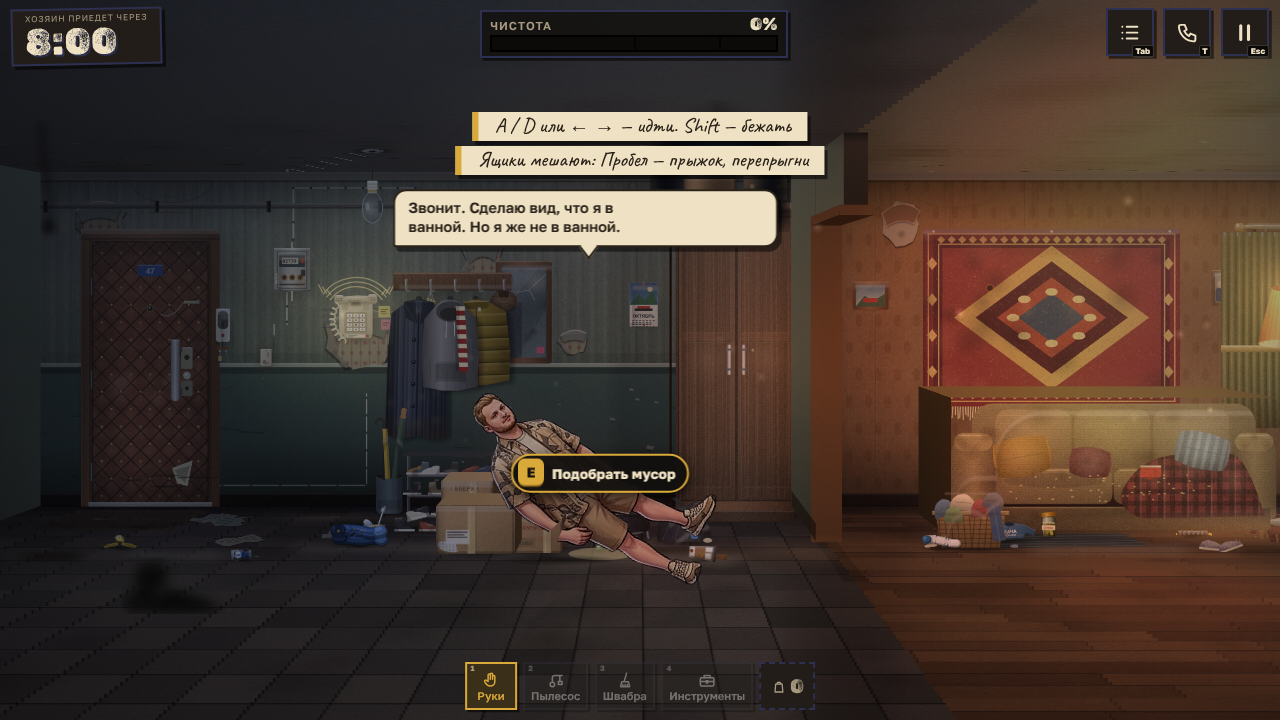
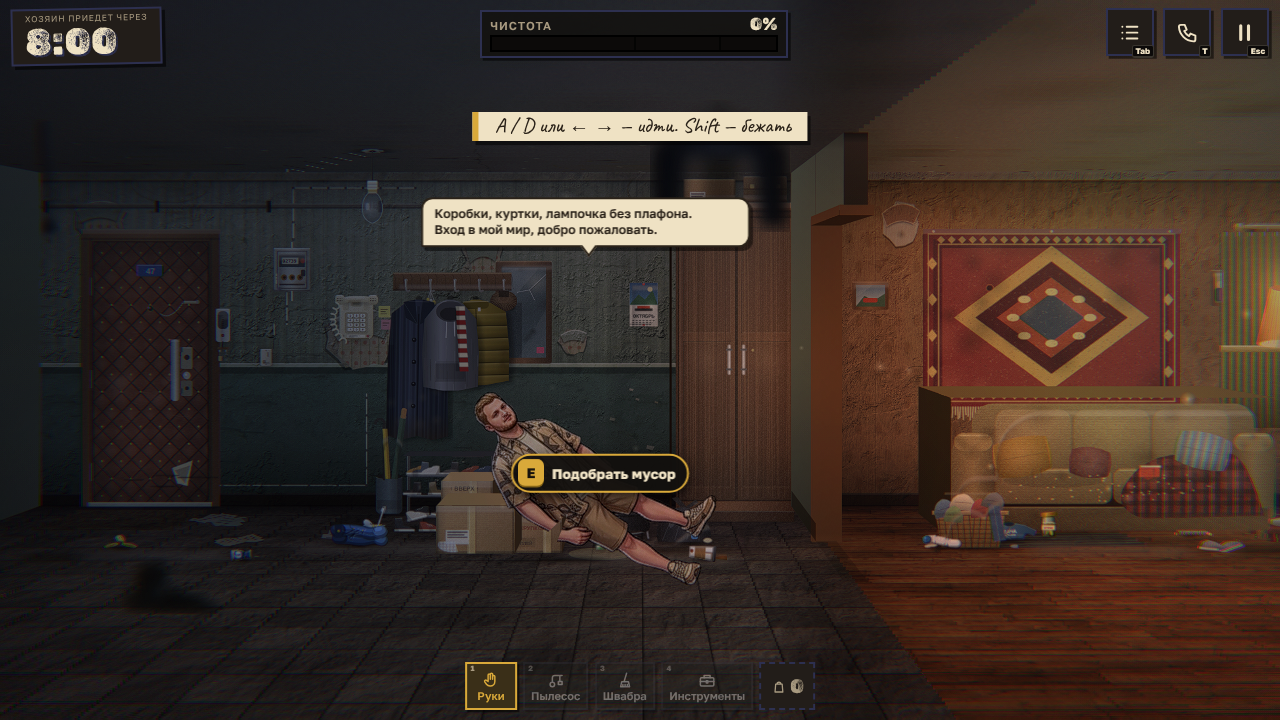
WebGL post-process enhancement (AA, adaptive sharpen, clarity, grade) with settings toggle
Claude-Session: https://claude.ai/code/session_01Cr2TWfzsTSuZMJmoki1rcL

diff --git a/js/post.js b/js/post.js
@@ -1,0 +1,63 @@
+/* ==========================================================================
+   BB.gl - WebGL post-process "AI-style" image enhancement (DLSS/FSR-like in spirit, NOT real DLSS):
+   edge-aware anti-aliasing, contrast-adaptive sharpening (RCAS-like), local contrast ("clarity"), gentle
+   lens chromatic aberration, filmic S-curve and dithering. The 2D game canvas is uploaded as a texture each
+   frame and drawn to an overlay canvas; with BB.renderScale < 1 the 2D scene is rendered at lower resolution
+   and upscaled here (dynamic-resolution trick that also saves GPU time).
+   ========================================================================== */
+(function () {
+  'use strict';
+  const BB = window.BB = window.BB || {};
+  const VS = 'attribute vec2 p;varying vec2 uv;void main(){uv=p*.5+.5;gl_Position=vec4(p,0.,1.);}';
+  const FS = `precision highp float;varying vec2 uv;uniform sampler2D t;uniform vec2 px;uniform float amt;uniform float seed;
+float L(vec3 c){return dot(c,vec3(.299,.587,.114));}
+void main(){
+  vec2 cc=uv-.5; float ab=dot(cc,cc)*1.1*amt;                                   // lens chromatic aberration (stronger at the edges)
+  vec3 c=vec3(texture2D(t,uv+cc*ab*.012).r,texture2D(t,uv).g,texture2D(t,uv-cc*ab*.012).b);
+  vec3 n=texture2D(t,uv+vec2(0.,px.y)).rgb,s=texture2D(t,uv-vec2(0.,px.y)).rgb,e=texture2D(t,uv+vec2(px.x,0.)).rgb,w=texture2D(t,uv-vec2(px.x,0.)).rgb;
+  float lc=L(c),ln=L(n),ls=L(s),le=L(e),lw=L(w);
+  float mn=min(lc,min(min(ln,ls),min(le,lw))),mx=max(lc,max(max(ln,ls),max(le,lw)));
+  // 1) edge-aware anti-aliasing: blend along strong luma edges only
+  vec3 avg=(n+s+e+w)*.25; float edge=smoothstep(.07,.30,mx-mn);
+  vec3 col=mix(c,mix(c,avg,.6),edge*amt);
+  // 2) contrast adaptive sharpening (less sharpening where contrast is already high)
+  float wgt=-1./mix(8.,5.,clamp(min(mn,1.-mx)/max(mx,.001),0.,1.))*(.45+.25*amt)*.62;
+  col=(col+wgt*(n+s+e+w))/(1.+4.*wgt);
+  // 3) local contrast / clarity
+  col+=(col-avg)*.11*amt;
+  // 4) filmic S-curve + slight saturation lift, dithering against banding
+  col=mix(col,col*col*(3.-2.*col),.10*amt);
+  float g=dot(col,vec3(.299,.587,.114)); col=mix(vec3(g),col,1.0+.04*amt);
+  float d=fract(sin(dot(gl_FragCoord.xy+seed,vec2(12.9898,78.233)))*43758.5453)-.5; col+=d/255.;
+  gl_FragColor=vec4(clamp(col,0.,1.),1.);
+}`;
+  const G = BB.gl = { on: false, amt: 1, ok: false };
+  BB.renderScale = 1;
+  G.init = function (src) {
+    if (G.ok) return true;
+    try {
+      const c = document.createElement('canvas'); c.id = 'cvgl'; c.style.cssText = 'position:absolute;inset:0;width:100%;height:100%;display:block;pointer-events:none;image-rendering:auto';
+      const gl = c.getContext('webgl', { alpha: false, antialias: false, depth: false, stencil: false, preserveDrawingBuffer: false, powerPreference: 'high-performance' }); if (!gl) return false;
+      const sh = (ty, s) => { const o = gl.createShader(ty); gl.shaderSource(o, s); gl.compileShader(o); if (!gl.getShaderParameter(o, gl.COMPILE_STATUS)) throw new Error(gl.getShaderInfoLog(o)); return o; };
+      const pr = gl.createProgram(); gl.attachShader(pr, sh(gl.VERTEX_SHADER, VS)); gl.attachShader(pr, sh(gl.FRAGMENT_SHADER, FS)); gl.linkProgram(pr); if (!gl.getProgramParameter(pr, gl.LINK_STATUS)) throw new Error('link');
+      const b = gl.createBuffer(); gl.bindBuffer(gl.ARRAY_BUFFER, b); gl.bufferData(gl.ARRAY_BUFFER, new Float32Array([-1, -1, 1, -1, -1, 1, 1, 1]), gl.STATIC_DRAW);
+      gl.useProgram(pr); const loc = gl.getAttribLocation(pr, 'p'); gl.enableVertexAttribArray(loc); gl.vertexAttribPointer(loc, 2, gl.FLOAT, false, 0, 0);
+      const tex = gl.createTexture(); gl.bindTexture(gl.TEXTURE_2D, tex); gl.texParameteri(gl.TEXTURE_2D, gl.TEXTURE_MIN_FILTER, gl.LINEAR); gl.texParameteri(gl.TEXTURE_2D, gl.TEXTURE_MAG_FILTER, gl.LINEAR); gl.texParameteri(gl.TEXTURE_2D, gl.TEXTURE_WRAP_S, gl.CLAMP_TO_EDGE); gl.texParameteri(gl.TEXTURE_2D, gl.TEXTURE_WRAP_T, gl.CLAMP_TO_EDGE);
+      gl.pixelStorei(gl.UNPACK_FLIP_Y_WEBGL, true);
+      G.c = c; G.gl = gl; G.u = { px: gl.getUniformLocation(pr, 'px'), amt: gl.getUniformLocation(pr, 'amt'), seed: gl.getUniformLocation(pr, 'seed') }; G.src = src; G.ok = true;
+      src.parentNode.insertBefore(c, src.nextSibling); return true;
+    } catch (e) { console.warn('[post] WebGL enhance unavailable:', e.message); G.ok = false; return false; }
+  };
+  G.enable = function (src, on) {
+    on = !!on; if (on && !G.init(src)) on = false;
+    G.on = on; if (G.c) G.c.style.display = on ? 'block' : 'none'; src.style.visibility = on ? 'hidden' : 'visible'; BB.renderScale = on ? (BB.renderScaleWanted || 1) : 1;
+    if (BB.fit) BB.fit();
+  };
+  G.present = function () {
+    if (!G.on || !G.ok) return; const gl = G.gl, s = G.src, W = s.clientWidth * Math.min(window.devicePixelRatio || 1, 2) | 0, H = s.clientHeight * Math.min(window.devicePixelRatio || 1, 2) | 0;
+    const tw = Math.min(W, 2560), th = Math.min(H, 1440); if (G.c.width !== tw || G.c.height !== th) { G.c.width = tw; G.c.height = th; }
+    gl.viewport(0, 0, G.c.width, G.c.height);
+    try { gl.texImage2D(gl.TEXTURE_2D, 0, gl.RGB, gl.RGB, gl.UNSIGNED_BYTE, s); } catch (e) { G.on = false; s.style.visibility = 'visible'; G.c.style.display = 'none'; return; }
+    gl.uniform2f(G.u.px, 1 / s.width, 1 / s.height); gl.uniform1f(G.u.amt, G.amt); gl.uniform1f(G.u.seed, (performance.now() % 1000)); gl.drawArrays(gl.TRIANGLE_STRIP, 0, 4);
+  };
+})();

diff --git a/js/ui.js b/js/ui.js
@@ -13,7 +13,7 @@
   const safe = (f, d) => { try { return f(); } catch (e) { console.error('[ui]', e); return d; } };
 
   /* ------------------------------------------------------------------ CFG */
-  const CFG_DEF = { vol: .7, music: false, sfx: true, musicVol: .8, sfxVol: 1, censor: false, subs: true, touch: false, quality: 'auto', realHero: true, voice: true, voiceVol: 1, debug: false, muted: false };
+  const CFG_DEF = { vol: .7, music: false, sfx: true, musicVol: .8, sfxVol: 1, censor: false, subs: true, touch: false, quality: 'auto', realHero: true, enhance: true, voice: true, voiceVol: 1, debug: false, muted: false };
   let stored = {}; try { stored = JSON.parse(localStorage.getItem('bamboul.cfg') || '{}') || {}; } catch (e) { }
   const CFG = BB.CFG = Object.assign(BB.CFG || {}, CFG_DEF, stored);
   BB.saveCFG = () => { try { localStorage.setItem('bamboul.cfg', JSON.stringify(CFG)); } catch (e) { } };
@@ -585,6 +585,7 @@
       row('Громкость', slider('vol')), row('Звуки', slider('sfxVol')),
       row('Запикать мат', toggle('censor'), 'Звёздочки вместо крепких слов'),
       row('Реалистичный герой', toggle('realHero'), 'Выключи — будет мультяшный герой с полным набором поз'),
+      row('Усиление картинки', toggle('enhance', v => { BB.gl && BB.gl.enable(document.querySelector('#cv'), v); }), 'Сглаживание, резкость и контраст через WebGL (в духе DLSS/FSR, не настоящий DLSS)'),
       row('Громкость голоса', slider('voiceVol')),
       row('Озвучка голосом', toggle('voice', v => { if (!v && BB.voice) BB.voice.stop(); }), 'Реплики вслух голосом браузера/телефона (русский голос должен быть установлен)'),
       row('Субтитры звуков', toggle('subs'), 'Подписи вроде «[звонит телефон]»'),

diff --git a/js/main.js b/js/main.js
@@ -193,6 +193,7 @@
     updateCamera(dt);
     BB.t = tGlobal;
     BB.render(g, S, tGlobal, dt);
+    if (BB.gl && BB.gl.on) BB.gl.present();
     if (BB.ui && BB.ui.frame) BB.ui.frame(dt, tGlobal);
   }
   BB.start = () => { if (running) return; running = true; requestAnimationFrame(frame); };
@@ -226,7 +227,7 @@
     const q = qs.get('q') || (/Android|iPhone|iPad|Mobile/i.test(navigator.userAgent) ? 'med' : 'high'); BB.setQuality(q);
     BB.autoQ = !qs.get('q') && (!BB.CFG || !BB.CFG.quality || BB.CFG.quality === 'auto'); AQ.step = q === 'high' ? 0 : q === 'med' ? 1 : 2;
     if (qs.has('debug')) BB.debug.on = true;
-    BB.fit(); addEventListener('resize', BB.fit); addEventListener('orientationchange', () => setTimeout(BB.fit, 200));
+    BB.fit(); if (BB.gl) { const on = !BB.CFG || BB.CFG.enhance !== false; if (!/low/.test(q) || qs.get('enhance')) BB.gl.enable(cv, on && qs.get('enhance') !== '0'); BB.fit(); } addEventListener('resize', BB.fit); addEventListener('orientationchange', () => setTimeout(BB.fit, 200));
     const bar = $('#loadBar'), txt = $('#loadTxt');
     await BB.buildWorld(p => { if (bar) bar.style.width = (p * 100 | 0) + '%'; });
     hero = (BB.char && BB.char.create) ? BB.char.create('bamboul') : placeholderHero();

diff --git a/js/engine.js b/js/engine.js
@@ -608,7 +608,7 @@
 
   /* ---------------------------------------------------------------- resize */
   BB.resize = function (canvas, cssW, cssH) {
-    const dprWant = Math.min(window.devicePixelRatio || 1, 2);
+    const dprWant = Math.min(window.devicePixelRatio || 1, 2) * (BB.renderScale || 1);
     let px = cssW * dprWant * cssH * dprWant;
     let dpr = dprWant; if (px > Q.maxPx) dpr = dprWant * Math.sqrt(Q.maxPx / px);
     canvas.width = Math.max(2, Math.round(cssW * dpr)); canvas.height = Math.max(2, Math.round(cssH * dpr));

diff --git a/index.html b/index.html
@@ -17,6 +17,7 @@
 <!-- engine -->
 <script src="js/engine.js"></script>
 <script src="js/art.js"></script>
+<script src="js/post.js"></script>
 <!-- shared props + rooms -->
 <script src="js/props.js"></script>
 <script src="js/rooms/hall.js"></script>

diff --git a/docs/QA_REPORT.md b/docs/QA_REPORT.md
@@ -51,3 +51,6 @@ The idle sprite is cut at load time into head / torso base (arms inpainted) / tw
 
 ## Update: exposure pass
 Bath (and every room) was overexposed (4-5 % of pixels clipped). Fixes: bath lights/blooms/ambient reduced, weaker bloom + cones + floor light pools, global exposure trim after the lightmap. Measured clipped pixels (>235 luma) per room after the fix: 0.1-0.5 %, mean luma 73-86.
+
+## Update: WebGL image enhancement (js/post.js)
+Optional post pass (Settings -> "Усиление картинки", on by default, off with ?enhance=0): edge-aware anti-aliasing, contrast-adaptive sharpening, local contrast, lens chromatic aberration, filmic curve, dithering; supports BB.renderScale < 1 (upscaling). This imitates the visible effect only; it is NOT NVIDIA DLSS (needs RTX hardware, motion vectors and depth). Falls back silently to the plain 2D canvas when WebGL is missing. Checked on screenshots with software WebGL.
